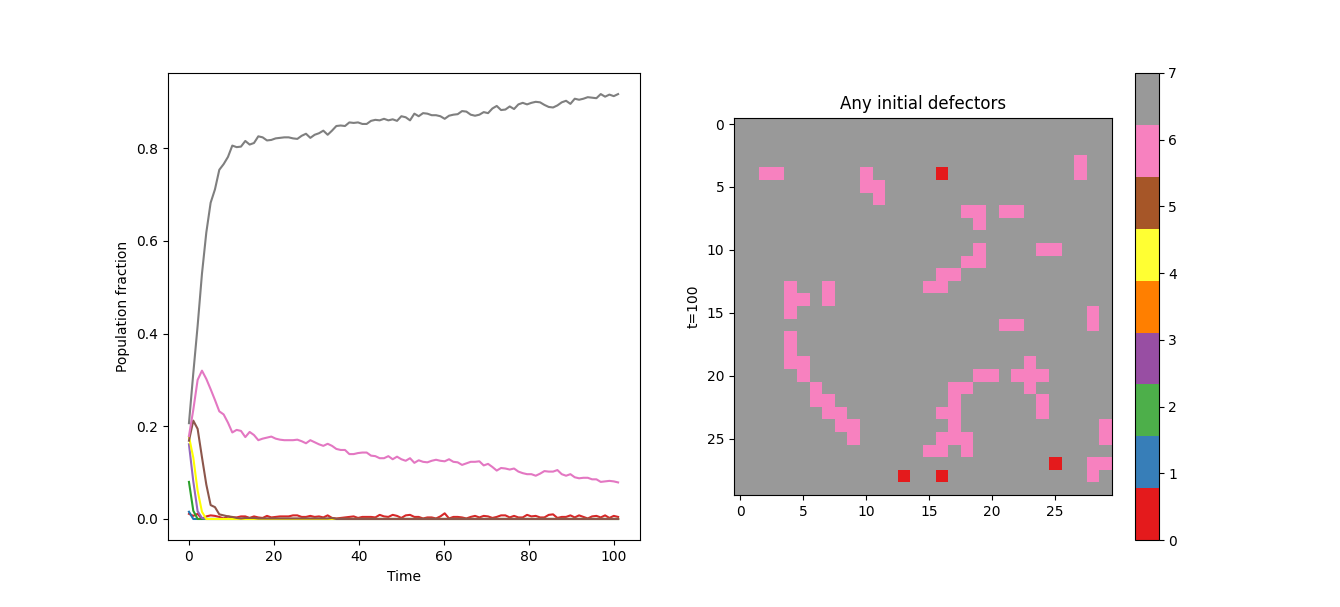
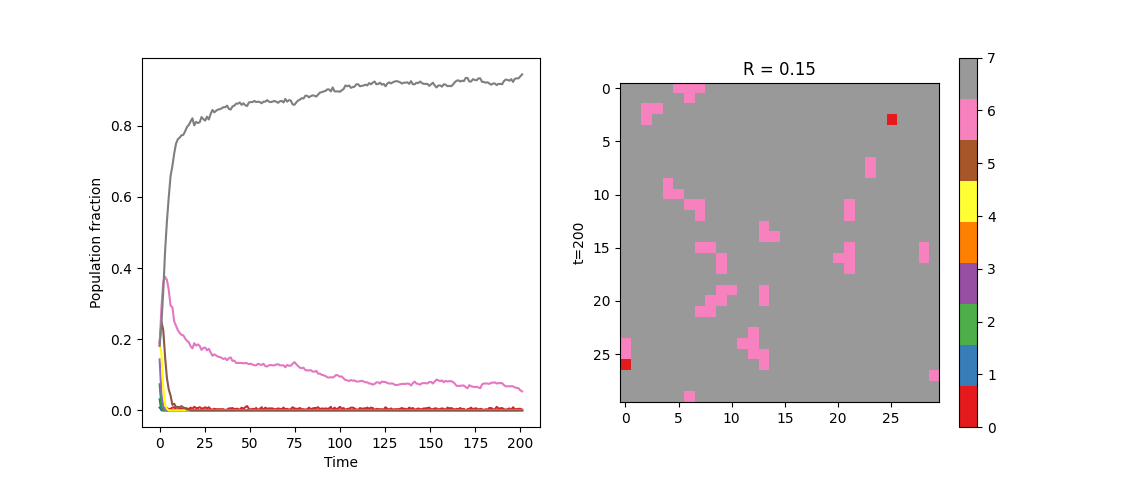
13.4

diff --git a/Homework4/main.py b/Homework4/main.py
@@ -13,14 +13,14 @@ L*L-9 = Cluster of cooperators
 
 # Parameters
 N = 7
-R = 0.7
+R = 0.9
 S = 1.5
 P = 1
 L = 30
 mu = 0.01
 
 nDefec = "Any"
-timesteps = 100
+timesteps = 200
 
 # Initialization
 lattice = fun.initialize_strategies(L, nDefec, N)
@@ -42,7 +42,7 @@ plt.subplot(1, 2, 2)
 plt.imshow(lattice, cmap='Set1', aspect='equal')
 plt.colorbar()
 plt.ylabel(f't={timesteps}')
-plt.title(f'{nDefec} initial defectors')
+plt.title(f'R = {R}')
 
 
 time = np.linspace(0, timesteps+1, timesteps)

diff --git a/Homework4/2D_phasemap.py b/Homework4/2D_phasemap.py
@@ -15,8 +15,10 @@ L*L-9 = Cluster of cooperators
 
 # Parameters
 N = 7
-R = np.linspace(0.01, 0.99, 33)
-S = np.linspace(1, 3, 33)
+# R = np.linspace(0.01, 0.99, 33)
+# S = np.linspace(1, 3, 33)
+R = [0.7, 0.9]
+S = [1, 1.5]
 P = 1
 L = 30
 mu = 0.01
